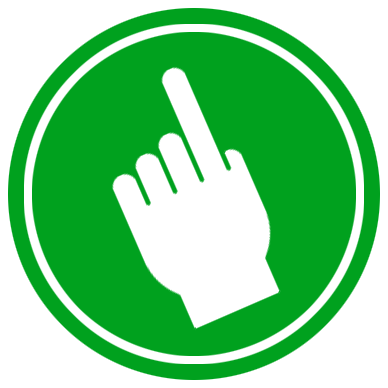
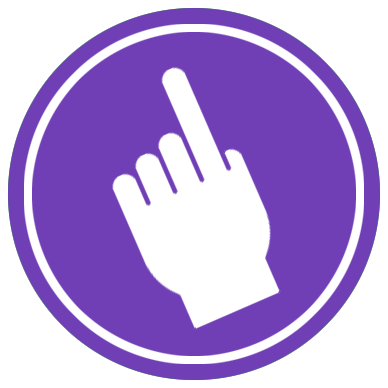
Add chair help activity

diff --git a/css/chair.css b/css/chair.css
@@ -77,7 +77,9 @@ html.chair-mode .chair-handoff-screen .handoff-put-back {
 }
 
 .chair-context .helper-context-band {
-  margin: 0;
+  width: calc(100% + 16px);
+  margin: 0 -16px 0 0;
+  padding-right: 62px;
 }
 
 .chair-context-details.helper-context-details {
@@ -230,7 +232,7 @@ html.chair-mode .chair-handoff-screen .handoff-put-back {
 }
 
 .chair-grid::-webkit-scrollbar {
-  height: 72px;
+  height: 22px;
 }
 
 .chair-grid::-webkit-scrollbar-track {
@@ -239,7 +241,7 @@ html.chair-mode .chair-handoff-screen .handoff-put-back {
 }
 
 .chair-grid::-webkit-scrollbar-thumb {
-  border: 12px solid rgba(111, 63, 181, 0.22);
+  border: 4px solid rgba(111, 63, 181, 0.22);
   border-radius: 999px;
   background: var(--chair-purple);
 }
@@ -299,7 +301,9 @@ html.chair-mode .chair-handoff-screen .handoff-put-back {
 }
 
 .chair-picker-activities .chair-grid-image {
-  flex: 0 0 66%;
+  position: relative;
+  z-index: 1;
+  flex: 0 0 59%;
   overflow: visible;
   border-radius: 0;
   background: #fff;
@@ -309,12 +313,14 @@ html.chair-mode .chair-handoff-screen .handoff-put-back {
   width: 100%;
   height: 100%;
   object-position: center center;
-  transform: translateY(-10px);
+  transform: translateY(-18px);
 }
 
 .chair-picker-activities .chair-grid-item strong {
+  position: relative;
+  z-index: 2;
   flex: 0 0 auto;
-  margin-top: 25px;
+  margin-top: calc(25px + 0.7em);
   padding-top: 0;
 }
 
@@ -394,7 +400,7 @@ html.chair-mode .chair-handoff-screen .handoff-put-back {
 .chair-alert-card button {
   min-height: 68px;
   border-radius: 20px;
-  background: var(--chair-blue);
+  background: var(--chair-purple);
   color: #fff;
   font-size: 24px;
   font-weight: 900;
@@ -476,11 +482,24 @@ html.chair-mode .chair-handoff-screen .handoff-put-back {
   font-weight: 900;
 }
 
+.chair-key-urgent {
+  color: #c7332c;
+  font-weight: 900;
+}
+
 .chair-detail-actions {
   flex: 0 0 auto;
   display: grid;
   grid-template-columns: 1fr 1fr;
   gap: 24px;
+}
+
+.chair-detail-actions-single {
+  grid-template-columns: 1fr 1fr;
+}
+
+.chair-detail-actions-single .chair-primary-action {
+  grid-column: 2;
 }
 
 .chair-primary-action,
@@ -494,7 +513,7 @@ html.chair-mode .chair-handoff-screen .handoff-put-back {
 }
 
 .chair-primary-action {
-  background: var(--chair-blue);
+  background: var(--chair-purple);
   color: #fff;
 }
 
@@ -509,6 +528,11 @@ html.chair-mode .chair-handoff-screen .handoff-put-back {
   background: #f4f4f4;
   color: #666;
   box-shadow: inset 0 0 0 3px rgba(90, 90, 90, 0.22);
+}
+
+.chair-layer .primary-action {
+  background: var(--chair-purple);
+  color: #fff;
 }
 
 .chair-media-detail-layer {
@@ -537,6 +561,23 @@ html.chair-mode .chair-handoff-screen .handoff-put-back {
 
 .chair-media-detail-actions .icon-action {
   min-width: 270px;
+  min-height: 94px;
+  border-radius: 24px;
+  font-size: 28px;
+  font-weight: 900;
+  letter-spacing: 0.8px;
+}
+
+.chair-media-detail-actions .primary-action {
+  background: var(--chair-purple);
+  color: #fff;
+}
+
+.chair-media-detail-actions .secondary-action {
+  border: 4px solid #999;
+  background: #fff;
+  color: #666;
+  box-shadow: 0 10px 18px rgba(80, 80, 80, 0.15);
 }
 
 .chair-done-screen {
@@ -577,7 +618,7 @@ html.chair-mode .chair-handoff-screen .handoff-put-back {
   min-height: 86px;
   margin-top: 88px;
   border-radius: 24px;
-  background: var(--chair-blue);
+  background: var(--chair-purple);
   color: #fff;
   font-size: 34px;
   line-height: 1;

diff --git a/js/main.js b/js/main.js
@@ -1040,13 +1040,16 @@ function setBooleanDataAttribute(element, name, enabled) {
 
 // Owns the supper/lunch/breakfast alert state and its dismissal window.
 function renderMealTimer(now) {
-  const mealState = getMealState(now, getMealsForDate(now));
   const mealTimer = document.getElementById("meal-timer");
-  if (chairModeActive) {
+  if (!LEGACY_SHELF_ENABLED || chairModeActive) {
+    if (mealTimer) mealTimer.hidden = true;
     mealTimer?.setAttribute("aria-hidden", "true");
     mealTimer?.classList.add("alert-card-hidden");
     return;
   }
+
+  if (mealTimer) mealTimer.hidden = false;
+  const mealState = getMealState(now, getMealsForDate(now));
   const mealName = document.getElementById("meal-name");
   const mealFill = document.getElementById("meal-bar-fill");
   const mealTarget = document.getElementById("meal-target-label");
@@ -1977,6 +1980,7 @@ function renderChairTakeOffOverlay() {
 
   const image = getChairItemImage(item);
   const summary = item.summary || item.message || "";
+  const isHelpQuestion = item.id === "help-question";
 
   return `
     <div class="chair-detail-layer${state.takeOffExiting ? " take-off-exiting" : ""}" role="dialog" aria-label="${escapeAttribute(item.title)}">
@@ -1990,9 +1994,13 @@ function renderChairTakeOffOverlay() {
           <h1>${escapeHtml(item.title)}</h1>
           ${summary ? `<p>${renderChairSummary(summary)}</p>` : ""}
         </div>
-        <div class="chair-detail-actions">
-          <button class="chair-primary-action" type="button" data-action="do-activity">DO THIS NOW</button>
-          <button class="chair-secondary-action" type="button" data-action="put-back">MAYBE LATER</button>
+        <div class="chair-detail-actions${isHelpQuestion ? " chair-detail-actions-single" : ""}">
+          ${
+            isHelpQuestion
+              ? '<button class="chair-primary-action" type="button" data-action="put-back">OK</button>'
+              : `<button class="chair-primary-action" type="button" data-action="do-activity">DO THIS NOW</button>
+                <button class="chair-secondary-action" type="button" data-action="put-back">MAYBE LATER</button>`
+          }
         </div>
       </div>
     </div>
@@ -2039,6 +2047,10 @@ function renderChairMediaTakeOffOverlay(item, category) {
 function renderChairSummary(summary) {
   return escapeHtml(summary)
     .replaceAll("\n", "<br>")
+    .replace(
+      /\b(Press the button)\b/gi,
+      '<span class="chair-key-urgent">$1</span>',
+    )
     .replace(
       /\b(tablet\s+beside your chair)\b/gi,
       '<span class="chair-key-place">$1</span>',
@@ -2241,10 +2253,11 @@ async function handleMainClick(event) {
   }
 
   if (action === "do-activity" && state.selectedItem) {
+    const item = state.selectedItem;
     clearSelection();
     state.view = "CHAIR_DONE";
     state.chairCategory = "activities";
-    state.chairDoneMessage = "Have fun!";
+    state.chairDoneMessage = item.doneMessage || "Have fun!";
     window.clearTimeout(state.chairDoneTimer);
     state.chairDoneTimer = window.setTimeout(() => {
       returnChairToActivities();

diff --git a/index.html b/index.html
@@ -52,10 +52,10 @@
 
     <link rel="stylesheet" href="./css/layout.css?v=assets-20260614-8" />
     <link rel="stylesheet" href="./css/text.css?v=assets-20260605-1" />
-    <link rel="stylesheet" href="./css/reader.css?v=assets-20260612-2" />
+    <link rel="stylesheet" href="./css/reader.css?v=assets-20260617-2" />
     <link rel="stylesheet" href="./css/launcher.css?v=assets-20260615-3" />
-    <link rel="stylesheet" href="./css/helper-door.css?v=assets-20260616-1" />
-    <link rel="stylesheet" href="./css/chair.css?v=assets-20260617-1" />
+    <link rel="stylesheet" href="./css/helper-door.css?v=assets-20260617-2" />
+    <link rel="stylesheet" href="./css/chair.css?v=assets-20260617-2" />
     <script>
       window.KIOSK = window.KIOSK || {};
       window.KIOSK.commsMode = "OFFSITE";
@@ -69,7 +69,7 @@
       <div id="tv-stage" data-home="true" aria-label="David's Things tablet app">
         <main id="app-main" aria-live="polite"></main>
 
-        <aside id="meal-timer" aria-label="Next meal">
+        <aside id="meal-timer" aria-label="Next meal" aria-hidden="true" hidden>
           <div id="meal-message">Loading today’s meals.</div>
           <div id="meal-progress-group">
             <div id="meal-name"></div>
@@ -86,7 +86,7 @@
       </div>
     </div>
 
-    <script type="module" src="./js/main.js?v=assets-20260617-1"></script>
+    <script type="module" src="./js/main.js?v=assets-20260617-2"></script>
     <script>
       if (
         "serviceWorker" in navigator &&

diff --git a/css/helper-door.css b/css/helper-door.css
@@ -3,6 +3,7 @@
   --helper-ink: #27231d;
   --helper-blue: #205b9d;
   --helper-green: #39754a;
+  --helper-purple: #6f3fb5;
   --helper-yellow: #9b6500;
   --helper-red: #b52a23;
 }
@@ -60,14 +61,28 @@ html.helper-door-mode #meal-timer {
 }
 
 .helper-context-band {
-  margin: -58px -54px 0;
-  padding: 30px 54px 28px;
+  position: relative;
+  width: calc(100% + 116px);
+  margin: -58px -62px 0 -54px;
+  padding: 30px 62px 28px 54px;
   background: linear-gradient(135deg, #315f82, #244b69);
   color: #fff;
   box-shadow: 0 6px 14px rgba(35, 58, 75, 0.18);
 }
 
+.helper-context-band::after {
+  content: "";
+  position: absolute;
+  top: 0;
+  right: -16px;
+  bottom: 0;
+  width: 24px;
+  background: #244b69;
+}
+
 .helper-context-title {
+  position: relative;
+  z-index: 1;
   font-size: 48px;
   line-height: 1;
   font-weight: 900;
@@ -154,7 +169,7 @@ html.helper-door-mode #meal-timer {
   bottom: 8px;
   left: 54px;
   height: 156px;
-  color: var(--helper-green);
+  color: var(--helper-purple);
   font-size: 25px;
   line-height: 1;
   font-weight: 900;

diff --git a/css/reader.css b/css/reader.css
@@ -290,6 +290,18 @@
   z-index: 3;
   touch-action: none;
   cursor: pointer;
+  background: transparent;
+  outline: none;
+  -webkit-tap-highlight-color: transparent;
+  -webkit-touch-callout: none;
+  user-select: none;
+}
+
+.reader-gesture-surface:active,
+.reader-gesture-surface:focus,
+.reader-gesture-surface:focus-visible {
+  background: transparent;
+  outline: none;
 }
 
 .reader-control {

diff --git a/js/helper-door.js b/js/helper-door.js
@@ -175,6 +175,7 @@ function buildRightNowContext(now) {
 
 function getAvailableActivities(context) {
   return (helperData.activities ?? [])
+    .filter((activity) => !activity.chairOnly)
     .filter((activity) => isActivityAvailable(activity, context))
     .sort((a, b) => (a.priority ?? 999) - (b.priority ?? 999));
 }

diff --git a/sw.js b/sw.js
@@ -1,4 +1,4 @@
-const CACHE_VERSION = "davids-shelves-20260617-1";
+const CACHE_VERSION = "davids-shelves-20260617-2";
 const APP_CACHE = `${CACHE_VERSION}-app`;
 const RUNTIME_CACHE = `${CACHE_VERSION}-runtime`;
 
